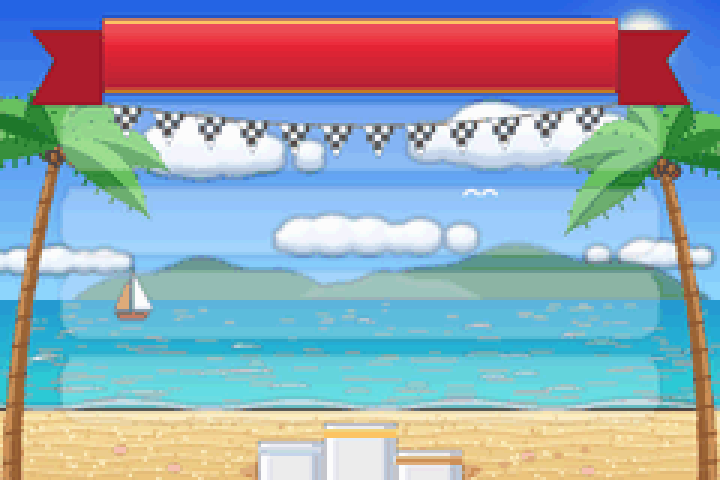
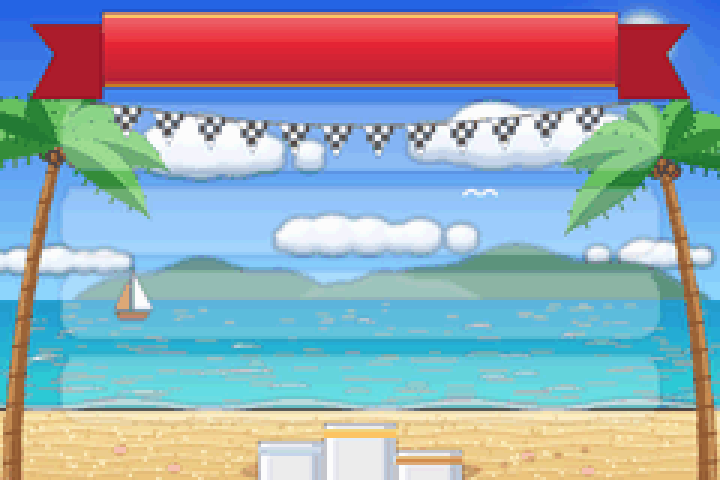
Results background: the ribbon centred on the RESULTS title
Claude-Session: https://claude.ai/code/session_01S1j7pJRr5op4weh9nnuVXR

diff --git a/updates/art/cup_results/paint.py b/updates/art/cup_results/paint.py
@@ -275,21 +275,22 @@ def podium(img):
 
 
 def banner(img):
-    """A shaded red ribbon with gold edges across the top, for the title."""
+    """A shaded red ribbon with gold edges across the top, for the title (centred on the
+    title text, y 8-24)."""
     b = layer()
     d = ImageDraw.Draw(b)
     y0, y1 = TITLE[0] * S, TITLE[1] * S
     x0, x1 = 34 * S, 206 * S
     for sx, dirn in ((x0, -1), (x1, 1)):
-        tail = [(sx, y0 + 6 * S), (sx + dirn * 24 * S, y0 + 6 * S), (sx + dirn * 16 * S, (y0 + y1) / 2 + 4 * S),
-                (sx + dirn * 24 * S, y1 + 7 * S), (sx, y1 + 7 * S)]
+        tail = [(sx, y0 + 4 * S), (sx + dirn * 24 * S, y0 + 4 * S), (sx + dirn * 16 * S, (y0 + y1) / 2 + 2 * S),
+                (sx + dirn * 24 * S, y1 + 5 * S), (sx, y1 + 5 * S)]
         d.polygon(tail, fill=(160, 30, 44, 255), outline=OUT)
-    for y in range(int(y0 + 2 * S), int(y1 + 3 * S)):
-        t = (y - y0) / (y1 - y0 + 3 * S)
+    for y in range(int(y0), int(y1 + S)):
+        t = (y - y0) / (y1 - y0 + S)
         k = 1.35 - 0.8 * t if t < 0.4 else 1.0 - 0.45 * (t - 0.4)
         d.line([(x0, y), (x1, y)], fill=shade((220, 44, 56), k) + (255,))
-    d.rectangle([x0, y0 + 2 * S, x1, y1 + 3 * S], outline=OUT)
-    for yy, c in ((y0 + 3 * S, (255, 220, 110)), (y1 + 2 * S, (210, 150, 50))):
+    d.rectangle([x0, y0, x1, y1 + S], outline=OUT)
+    for yy, c in ((y0 + S, (255, 220, 110)), (y1, (210, 150, 50))):
         d.line([(x0 + S, yy), (x1 - S, yy)], fill=c + (255,), width=S)
     paste(img, b)
 
